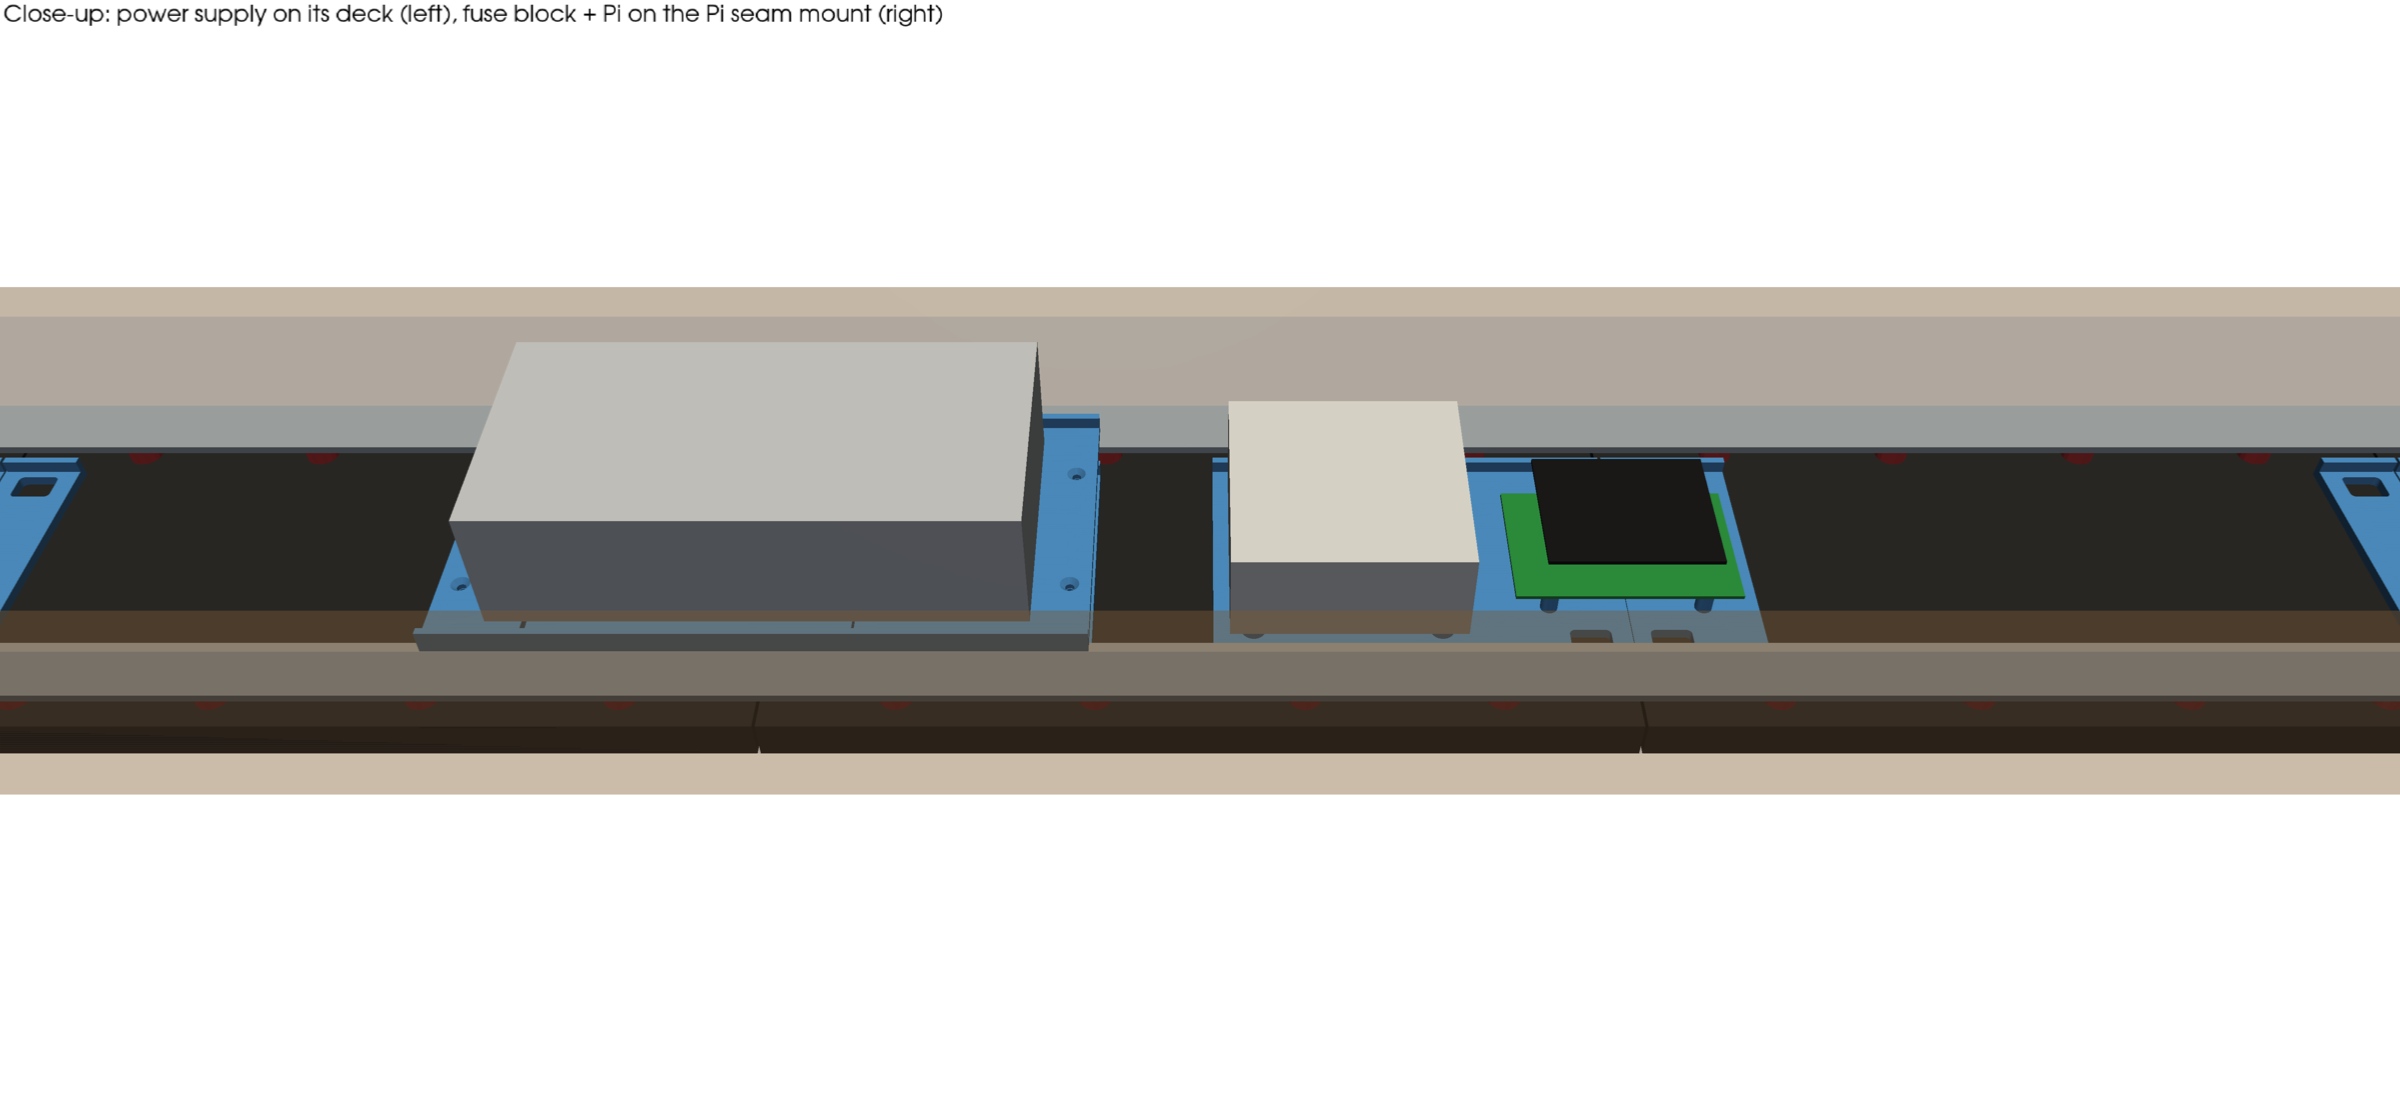
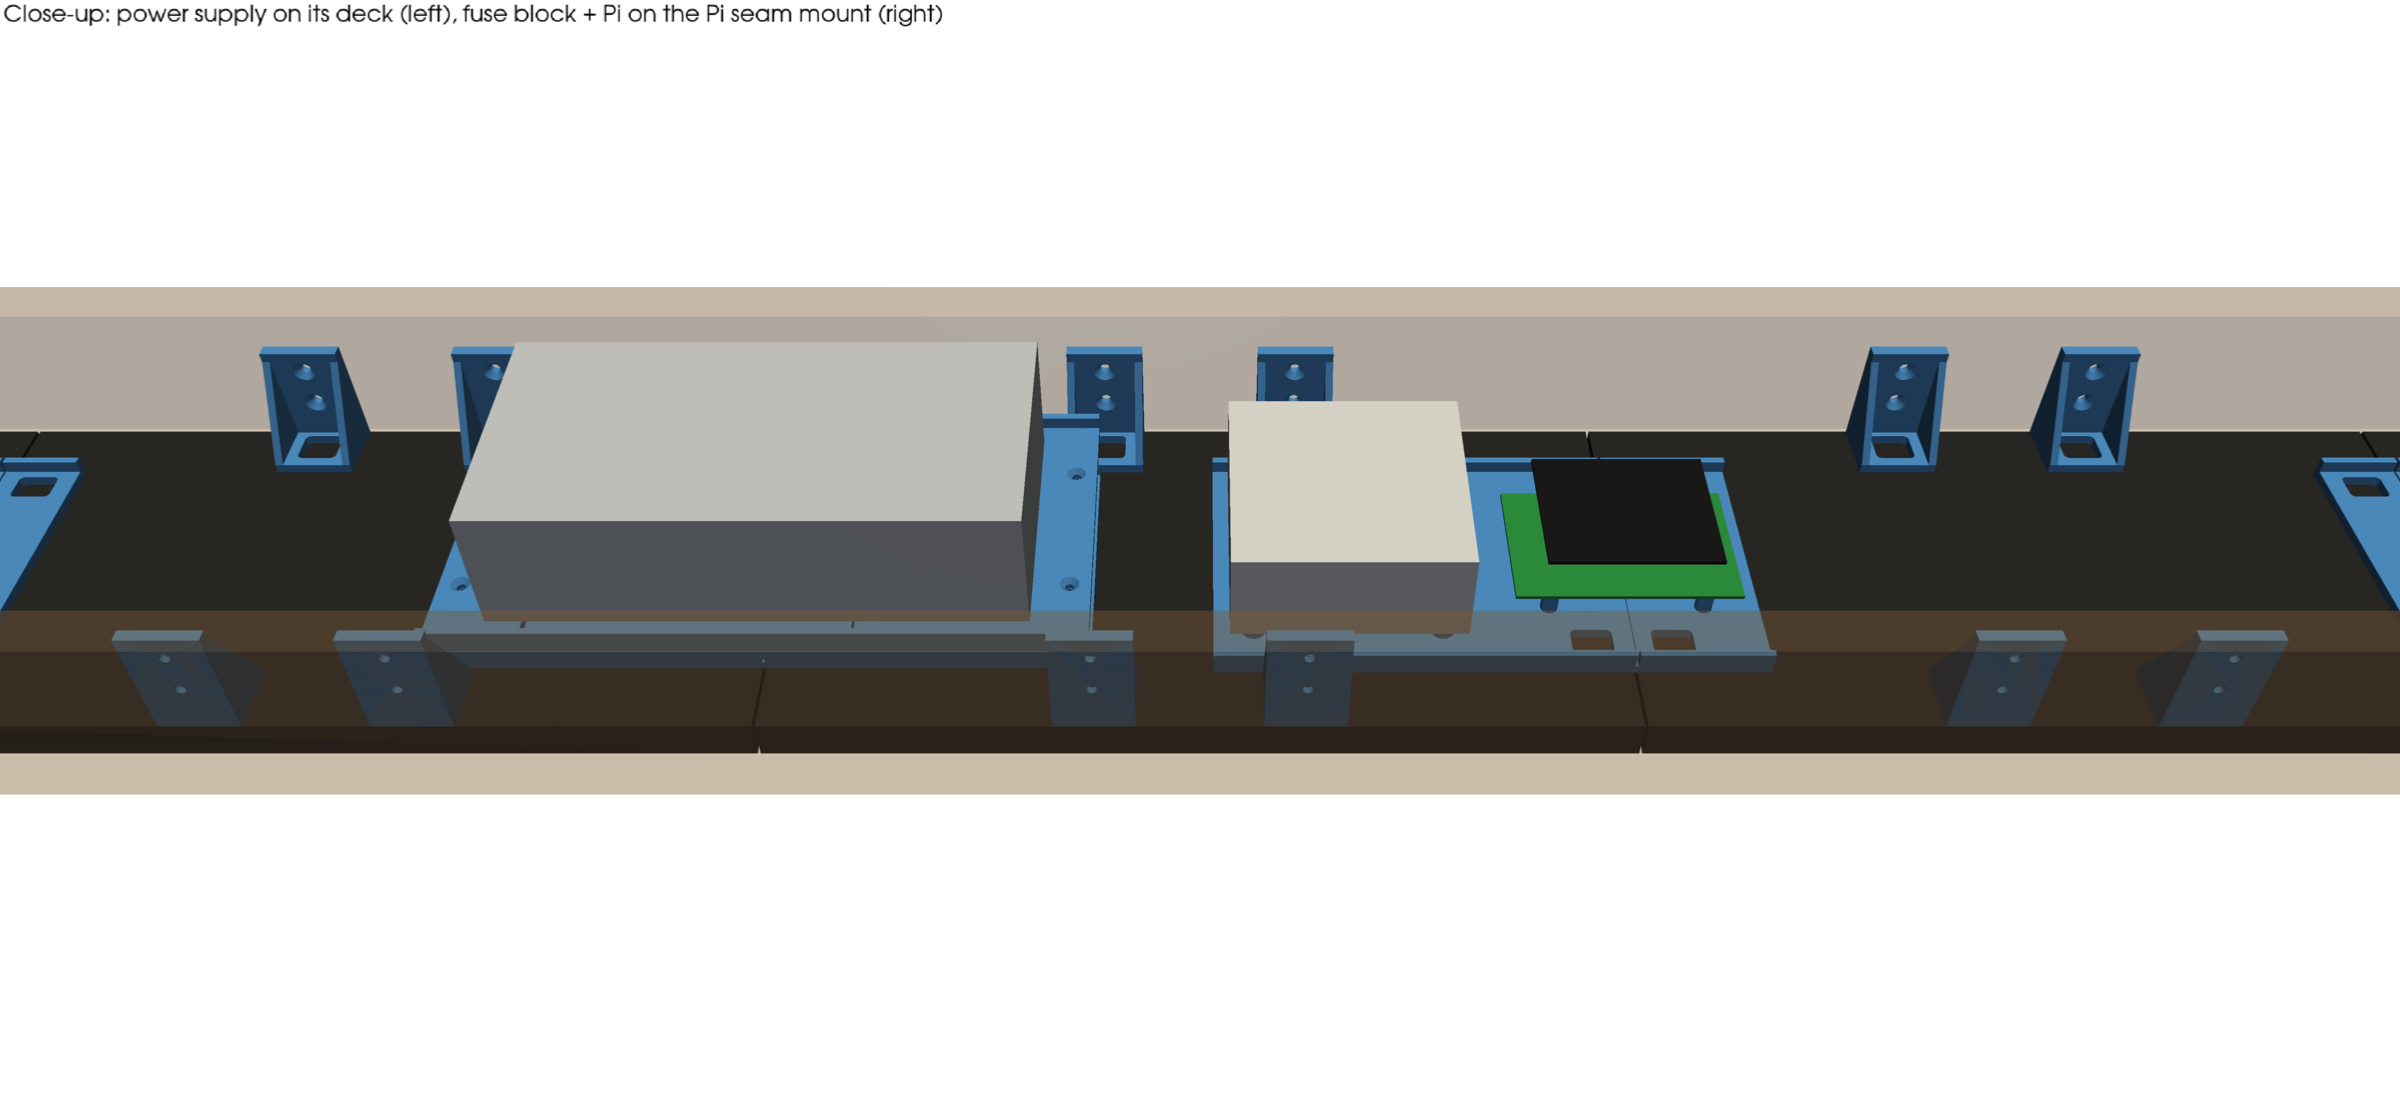
Drop the steel bars + magnets: edge clips hang the panels from the 1x4 frame; simpler end brackets
Claude-Session: https://claude.ai/code/session_01HYeaEYygyfgRPSDkpePvV6

diff --git a/hardware/seam_parts.py b/hardware/seam_parts.py
@@ -1,13 +1,14 @@
 # Bar ticker: printed parts that hold the 5 LED panels together, using the brass inserts near each panel's
 # SHORT ends. Every panel has two there: ~15 mm in from the end edge, ~37-39 mm in from each long edge
-# (measured from the 11/23 tape photo). At a seam that's 4 inserts (2 per panel), all between the steel bars,
-# so the long-edge insert rows stay free for the magnets that hold the bars.
+# (measured from the 11/23 tape photo). At a seam that's 4 inserts (2 per panel), all in the middle of the panel,
+# so the long-edge insert rows stay free for the edge clips that hang the panels from the 1x4 frame.
 #
 #   ticker-seam-plate.stl      plain joiner for a seam                      print 2
 #   ticker-seam-pi-mount.stl   joiner with the Pi 4 mount + 6-way fuse block mount  print 1
 #   ticker-seam-psu-base-A/B.stl  joiner with 4 posts for the power-supply deck, 2 halves (butt cut, K1C bed)  print 1 each
 #   ticker-psu-deck-A/B.stl       deck the 5V supply bolts to (2 x M4), 2 halves, each with 1 supply bolt  print 1 each
-#   ticker-end-bracket.stl     outer ends: holds both steel bar ends + flange for the wood sides  print 1
+#   ticker-edge-clip.stl       long edges: insert -> 90-degree flange screwed to the top/bottom 1x4  print 20
+#   ticker-end-bracket.stl     outer ends: flange for the wood side board  print 1
 #   ticker-end-bracket-switch.stl  same, with a notch in the flange for the power switch  print 1
 #   ticker-end-washer.stl      slider washer under each M3 screw (windows are oversized)  print 20
 #
@@ -29,7 +30,7 @@ def save(part, name):
 INS_X, INS_Y = 15.0, 42.0          # insert offset from the end edge / from the panel center line
 WIN_X, WIN_Y = 6.0, 4.0            # window half-size around each insert
 T = 4.0                            # plate thickness
-H = 108.0                          # plate height (fits between the steel bars)
+H = 108.0                          # plate height (stays clear of the edge clips at |y| >= 55)
 
 def windows(part, xs):
     for x in xs:
@@ -89,7 +90,7 @@ save(pim, "ticker-seam-pi-mount.stl")
 
 # ---- power supply mount, 2 pieces (bolt the supply to the deck FIRST, then screw the deck onto the base):
 #   base: seam joiner (4 end inserts) with 4 posts out past the supply's ends
-#   deck: plate that rides on the posts ABOVE the steel bars; the supply bolts to it with 2 x M4 + fender washers
+#   deck: plate that rides on the posts above the base; the supply bolts to it with 2 x M4 + fender washers
 # Supply: 7 3/4" (197 mm) long; 2 threaded M4 holes in the bottom along one long edge, 4.7" (119 mm) apart,
 # closer to one end (~18 mm and ~139 mm from that end, from the photo). The deck has slotted windows so the
 # across-the-width position and a few mm along don't matter.
@@ -97,11 +98,11 @@ PSU_L = 197.0
 PSU_HOLE_DX = 119.4                       # 4.7" center to center
 PSU_HOLE_FROM_END = 18.0                  # first hole from the near end (photo estimate)
 PSU_HOLE_CX = -PSU_L / 2 + PSU_HOLE_FROM_END + PSU_HOLE_DX / 2   # midpoint of the 2 holes, supply centered at x=0
-DECK_Z = 18.0                             # underside of the deck: above the bars (~16 mm)
+DECK_Z = 18.0                             # underside of the deck (clears the base ribs and screw heads)
 DECK_T = 4.0
 BL = 120.0                                # base/deck half-length (240 mm long: fits a 256 mm bed)
 POST_X, POST_Y = 112.0, 30.0
-BASE_H = 104.0                            # base stays between the bars where the posts are
+BASE_H = 104.0                            # base stays inside |y| <= 52 (edge clips start at 55)
 psub = box(-BL, -BASE_H / 2, 0, BL, BASE_H / 2, T)
 psub = ribs(psub, -BL, BL, ys=(-BASE_H / 2 + 1.5, BASE_H / 2 - 1.5))
 for px in (-POST_X, POST_X):
@@ -132,38 +133,44 @@ deck = deck - box(-PSU_L / 2, -0.4 - 25, DECK_T - 0.5, -PSU_L / 2 + 0.8, 25.4, D
 a_, b_ = split_x0(deck)        # 2 halves: each has 2 posts + 1 supply bolt, so the supply itself joins them
 save(a_, "ticker-psu-deck-A.stl"); save(b_, "ticker-psu-deck-B.stl")
 
-# ---- end bracket (outer ends): full panel height, 90-degree flange flush with the end edge for the wood side
-# board (screw holes along the whole height), and pockets that capture the ends of both 1" steel bars, so the
-# bars, the bracket and the side boards all tie together. Bars run the full length and butt against the flange.
+# ---- NO STEEL: the 1x4 frame is the backbone. The top and bottom boards run the full length; the panels hang
+# from them with small edge clips, and the side boards screw to the end brackets.
+
+# ---- edge clip: screws into a long-edge insert (the rows ~14 mm in from each long edge) and has a 90-degree
+# flange flush with the panel's long edge for screwing into the top or bottom 1x4. 2 per panel per edge = 20.
+ROW_IN = 14.0                      # long-edge insert row, measured in from the panel edge (photo estimate)
 PANEL_H = 160.0
-ROW_Y = 66.0                       # steel bar centerline (long-edge insert rows, ~14 mm from the panel edge)
-BAR_W, BAR_T = 25.4, 3.2
-MAG_H = 12.0                       # magnet body height: the bar sits on the magnet faces at this height
-L, FL_T, FL_H = 30.0, 5.0, 45.0
+EDGE = PANEL_H / 2                 # panel edge, from the center line
+CL_W = 30.0                        # clip width along the ticker
+CL_Y0 = 55.0                       # base starts here: clears the seam parts / PSU base (|y| <= 54)
+FL_T, FL_H = 5.0, 45.0
+clip = box(-CL_W / 2, CL_Y0, 0, CL_W / 2, EDGE, T) + box(-CL_W / 2, EDGE - FL_T, 0, CL_W / 2, EDGE, FL_H)
+for xc in (-CL_W / 2 + 1.5, CL_W / 2 - 1.5):                       # gussets
+    clip = clip + m.Manifold.batch_hull([box(xc - 1.5, EDGE - FL_T, 0, xc + 1.5, EDGE, FL_H - 4),
+                                         box(xc - 1.5, CL_Y0, 0, xc + 1.5, EDGE, T)])
+yi = EDGE - ROW_IN
+clip = clip - rbox(-WIN_X - 1.7, yi - 5 - 1.7, WIN_X + 1.7, yi + 5 + 1.7, -1, T + 2, 2.0)   # insert window
+for zc in (20.0, 36.0):                                            # #6 wood screws, countersunk on the inside face
+    clip = clip - Cy(FL_T + 2, 2.0, 2.0, 32).rotate([-90, 0, 0]).translate([0, EDGE - FL_T - 1, zc])
+    clip = clip - Cy(2.4, 4.2, 2.0, 32).rotate([-90, 0, 0]).translate([0, EDGE - FL_T - 0.01, zc])
+save(clip, "ticker-edge-clip.stl")
+
+# ---- end bracket (outer ends): full panel height, screws into the 2 short-end inserts, 90-degree flange flush with
+# the end edge for the wood side board.
+L = 30.0
 eb = box(0, -PANEL_H / 2, 0, L, PANEL_H / 2, T) + box(0, -PANEL_H / 2, 0, FL_T, PANEL_H / 2, FL_H)
-for s_ in (-1, 1):
-    y_in = ROW_Y - BAR_W / 2 - 0.3          # inner edge of the bar (+clearance)
-    a, b = sorted((s_ * (y_in - 4.5), s_ * PANEL_H / 2))
-    blk = box(0, a, 0, L, b, MAG_H + BAR_T + 0.4 + 3.0)                       # block around the bar end
-    ba, bb = sorted((s_ * y_in, s_ * (PANEL_H / 2 + 1)))
-    blk = blk - box(FL_T, ba, MAG_H, L + 1, bb, MAG_H + BAR_T + 0.4)          # bar slot (open on the inside and outer edge)
-    la, lb = sorted((s_ * (y_in + 4.0), s_ * (PANEL_H / 2 + 1)))
-    blk = blk - box(FL_T, la, MAG_H + BAR_T + 0.4 - 0.01, L + 1, lb, MAG_H + 20)  # lip only overlaps the bar's inner 4 mm
-    eb = eb + blk
-for yc in (0.0,):
+for yc in (-PANEL_H / 2 + 1.5, -24.0, 24.0, PANEL_H / 2 - 1.5):
     eb = eb + m.Manifold.batch_hull([box(0, yc - 1.5, 0, FL_T, yc + 1.5, FL_H - 4), box(0, yc - 1.5, 0, L, yc + 1.5, T)])
-for s_ in (-1, 1):                                                 # gussets from the flange down onto the bar blocks
-    yc = s_ * (ROW_Y - BAR_W / 2 - 3.0)
-    eb = eb + m.Manifold.batch_hull([box(0, yc - 1.5, 0, FL_T, yc + 1.5, FL_H - 4), box(0, yc - 1.5, 0, L, yc + 1.5, 19)])
 eb = windows(eb, (INS_X,))
-for yc in (-66.0, -36.0, -12.0, 12.0, 36.0, 66.0):                 # #6 wood screws along the whole height
+FL_HOLES = (-66.0, -36.0, -12.0, 12.0, 36.0, 66.0)
+for yc in FL_HOLES:                                                # #6 wood screws along the whole height
     eb = eb - Cy(FL_T + 2, 2.0, 2.0, 32).rotate([0, 90, 0]).translate([-1, yc, 32])
     eb = eb - Cy(2.4, 2.0, 4.2, 32).rotate([0, 90, 0]).translate([FL_T - 2.39, yc, 32])
 save(eb, "ticker-end-bracket.stl")
 # switch-end version: notch in the top of the flange so a 20 mm round rocker switch (and the ~35 mm pocket routed
 # behind it in the side board) has room. Switch center: panel center height, 55 mm out from the panel back
 # (= 70 mm / 2 3/4" back from the front edge of a 1x4 side board).
-SW_Z, SW_NOTCH = 55.0, 24.0
+SW_Z, SW_NOTCH = 55.0, 20.0
 eb_sw = eb - box(-1, -SW_NOTCH, SW_Z - 25, L + 1, SW_NOTCH, FL_H + 1)
 save(eb_sw, "ticker-end-bracket-switch.stl")
 
@@ -174,10 +181,10 @@ save(rbox(-9, -7, 9, 7, 0, 2.0, 2.5) - cyl(0, 0, -1, 4.0, 3.4, 32), "ticker-end-
 import matplotlib; matplotlib.use("Agg")
 import matplotlib.pyplot as plt
 from mpl_toolkits.mplot3d.art3d import Poly3DCollection
-names = ["ticker-seam-plate.stl", "ticker-seam-pi-mount.stl", "ticker-seam-psu-base-A.stl", "ticker-seam-psu-base-B.stl", "ticker-psu-deck-A.stl", "ticker-psu-deck-B.stl", "ticker-end-bracket.stl"]
-fig = plt.figure(figsize=(26, 5))
+names = ["ticker-seam-plate.stl", "ticker-seam-pi-mount.stl", "ticker-seam-psu-base-A.stl", "ticker-seam-psu-base-B.stl", "ticker-psu-deck-A.stl", "ticker-psu-deck-B.stl", "ticker-end-bracket.stl", "ticker-edge-clip.stl"]
+fig = plt.figure(figsize=(30, 5))
 for i, n in enumerate(names):
-    tm = trimesh.load(n); ax = fig.add_subplot(1, 7, i + 1, projection="3d")
+    tm = trimesh.load(n); ax = fig.add_subplot(1, 8, i + 1, projection="3d")
     ax.add_collection3d(Poly3DCollection(tm.vertices[tm.faces], facecolor="#5aa0e0", edgecolor="#1d3d5e", linewidths=0.1))
     ax.set_xlim(-140, 140); ax.set_ylim(-140, 140); ax.set_zlim(0, 70); ax.view_init(35, -60); ax.set_axis_off()
     ax.set_title(n.replace("ticker-", "").replace(".stl", ""))

diff --git a/hardware/render_assembly.py b/hardware/render_assembly.py
@@ -1,4 +1,4 @@
-# Bar ticker: 3D rendering of the back of the assembled ticker (panels, printed parts, steel bars, magnets,
+# Bar ticker: 3D rendering of the back of the assembled ticker (panels, printed parts, edge clips,
 # power supply, Pi, wood frame). World: x along the ticker (0-1600 mm), y up the panel (0-160), z out the back.
 import numpy as np, trimesh, manifold3d as m
 import matplotlib; matplotlib.use("Agg")
@@ -30,11 +30,10 @@ add("print", part("ticker-seam-pi-mount.stl", PW * 3))
 add("print", part("ticker-seam-plate.stl", PW * 4))
 add("print", part("ticker-end-bracket-switch.stl", 0))
 add("print", part("ticker-end-bracket.stl", W, flip=True))
-for ry in (14, 146):                                                  # steel bars + magnets
-    add("steel", tbox(5, ry - 12.7, 12, W - 5, ry + 12.7, 15.2))
-    for i in range(N):
-        for rx in (50, 122, 198, 270):
-            add("magnet", tcyl(i * PW + rx, ry, 0, 12, 12.5))
+for i in range(N):                                                    # edge clips: 2 per panel per edge
+    for cx in (122, 198):
+        add("print", part("ticker-edge-clip.stl", i * PW + cx))
+        add("print", part("ticker-edge-clip.stl", i * PW + cx, flip=True))
 add("psu", tbox(PW * 2 - 98.5, 80 - 49, 22, PW * 2 + 98.5, 80 + 49, 72))  # 5V 30A supply (197 x 98 x ~50) bolted to the deck
 add("pi", tbox(PW * 3 - 42.5, 80 - 28, 12, PW * 3 + 42.5, 80 + 28, 13.5))   # Pi 4
 add("fuse", tbox(PW * 3 - 105 - 44, 80 - 44, 10, PW * 3 - 105 + 44, 80 + 44, 47))  # 6-way fuse block
@@ -47,7 +46,7 @@ add("wood", tbox(W, -WOOD, -15, W + WOOD, PH + WOOD, DEPTH - 15))
 add("wood", tbox(0, -WOOD, -15, W, 0, DEPTH - 15))
 add("wood", tbox(0, PH, -15, W, PH + WOOD, DEPTH - 15))
 
-colors = {"panel": "#2a2a2a", "print": "#4f97da", "steel": "#a7b0ba", "magnet": "#d23c3c",
+colors = {"panel": "#2a2a2a", "print": "#4f97da", 
           "psu": "#cfd3d8", "pi": "#2f9a45", "bonnet": "#1b1b1b", "fuse": "#e8e8e8", "switch": "#c0392b", "wood": "#c8955a"}
 import pyvista as pv
 pv.OFF_SCREEN = True
@@ -58,7 +57,7 @@ def scene(wood_opacity=1.0, size=(2400, 1100)):
         tm = trimesh.util.concatenate(meshes)
         faces = np.hstack([np.full((len(tm.faces), 1), 3), tm.faces]).ravel()
         pm = pv.PolyData(tm.vertices, faces)
-        p.add_mesh(pm, color=colors[k], smooth_shading=False, specular=0.3 if k in ("steel", "magnet") else 0.1,
+        p.add_mesh(pm, color=colors[k], smooth_shading=False, specular=0.1,
                    opacity=wood_opacity if k == "wood" else 1.0)
     p.enable_anti_aliasing("ssaa")
     return p
@@ -73,7 +72,7 @@ p.screenshot("ticker-render-full.png")
 # 2) close-up: Pi seam, supply seam and the right end bracket (wood see-through)
 p = scene(wood_opacity=0.25)
 p.camera_position = [(W - 250, -420, 520), (W - 330, 80, 10), (0, 0, 1)]
-p.add_text("Close-up: Pi seam mount, seam plate, end bracket holding both bars (wood shown see-through)", font_size=12, color="black")
+p.add_text("Close-up: Pi seam mount, edge clips into the 1x4 frame, end bracket (wood shown see-through)", font_size=12, color="black")
 p.screenshot("ticker-render-closeup.png")
 
 p = scene(wood_opacity=0.25)

diff --git a/hardware/back_layout.py b/hardware/back_layout.py
@@ -41,14 +41,12 @@ for k in range(0, N + 1):
         if 0 < x < W:
             for sy in (-1, 1):
                 ax.add_patch(Circle((x, PH / 2 + sy * 42), 3, facecolor="#f2f2f2", edgecolor="#333", lw=0.8, zorder=10))
-# steel bars (full length, ends captured in the end brackets)
-for ry in ROWS:
-    ax.add_patch(Rectangle((5, ry - BAR_W / 2), W - 10, BAR_W, facecolor="#9aa3ad", edgecolor="#4b5560", lw=1, alpha=0.6, zorder=6))
-# magnets in every long-edge insert
+# edge clips (2 per panel per edge) screw into the long-edge inserts and into the top/bottom 1x4
 for i in range(N):
-    for ry in ROWS:
-        for rx in ROW_X:
-            ax.add_patch(Circle((i * PW + rx, ry), 6.5, facecolor="#d94040", edgecolor="#701010", lw=0.8, zorder=7))
+    for cx in (122, 198):
+        for (y0, yi) in ((0, 14), (PH - 25, PH - 14)):
+            ax.add_patch(Rectangle((i * PW + cx - 15, y0), 30, 25, facecolor="#5aa0e0", edgecolor="#1d3d5e", lw=1, zorder=7))
+            ax.add_patch(Circle((i * PW + cx, yi), 3, facecolor="#f2f2f2", edgecolor="#333", lw=0.8, zorder=10))
 ax.add_patch(Rectangle((PW * 3 - 149, PH / 2 - 44), 88, 88, facecolor="#e8e8e8", edgecolor="#555", lw=1.2, zorder=8))
 ax.text(PW * 3 - 105, PH / 2, "6-way\nfuse block", ha="center", va="center", fontsize=8.5, zorder=9)
 # power supply rides above the bars on the cradle; Pi on its seam mount
@@ -61,8 +59,8 @@ for tx in (PW * 4 + 160, PW * 2 + 160, PW * 0 + 160):
 # labels
 ax.set_xlim(-60, W + 60); ax.set_ylim(PH + 45, -70)
 ax.set_title("Bar ticker - BACK view (Panel 1 is on the right from behind)    ~63\" x 6.3\" panels, 3/4\" wood frame", fontsize=13)
-legend = [("#5aa0e0", "printed seam parts (4) + end brackets (2), white = M3 screws"), ("#9aa3ad", "steel flat bar 1\" x 1/8\" x 62.5\" (2), held by magnets"),
-          ("#d94040", "magnets (every long-edge insert)"), ("#c8955a", "wood frame (sides screw to the end-bracket flanges)")]
+legend = [("#5aa0e0", "printed seam parts (4) + end brackets (2), white = M3 screws"), ("#5aa0e0", "edge clips (20): long-edge inserts -> top/bottom 1x4"),
+          ("#c8955a", "1x4 frame = the backbone (no steel)")]
 for i, (c, t) in enumerate(legend):
     ax.add_patch(Rectangle((i * 460 - 40, -58), 22, 16, facecolor=c, edgecolor="#333"))
     ax.text(i * 460 - 10, -50, t, va="center", fontsize=10)
